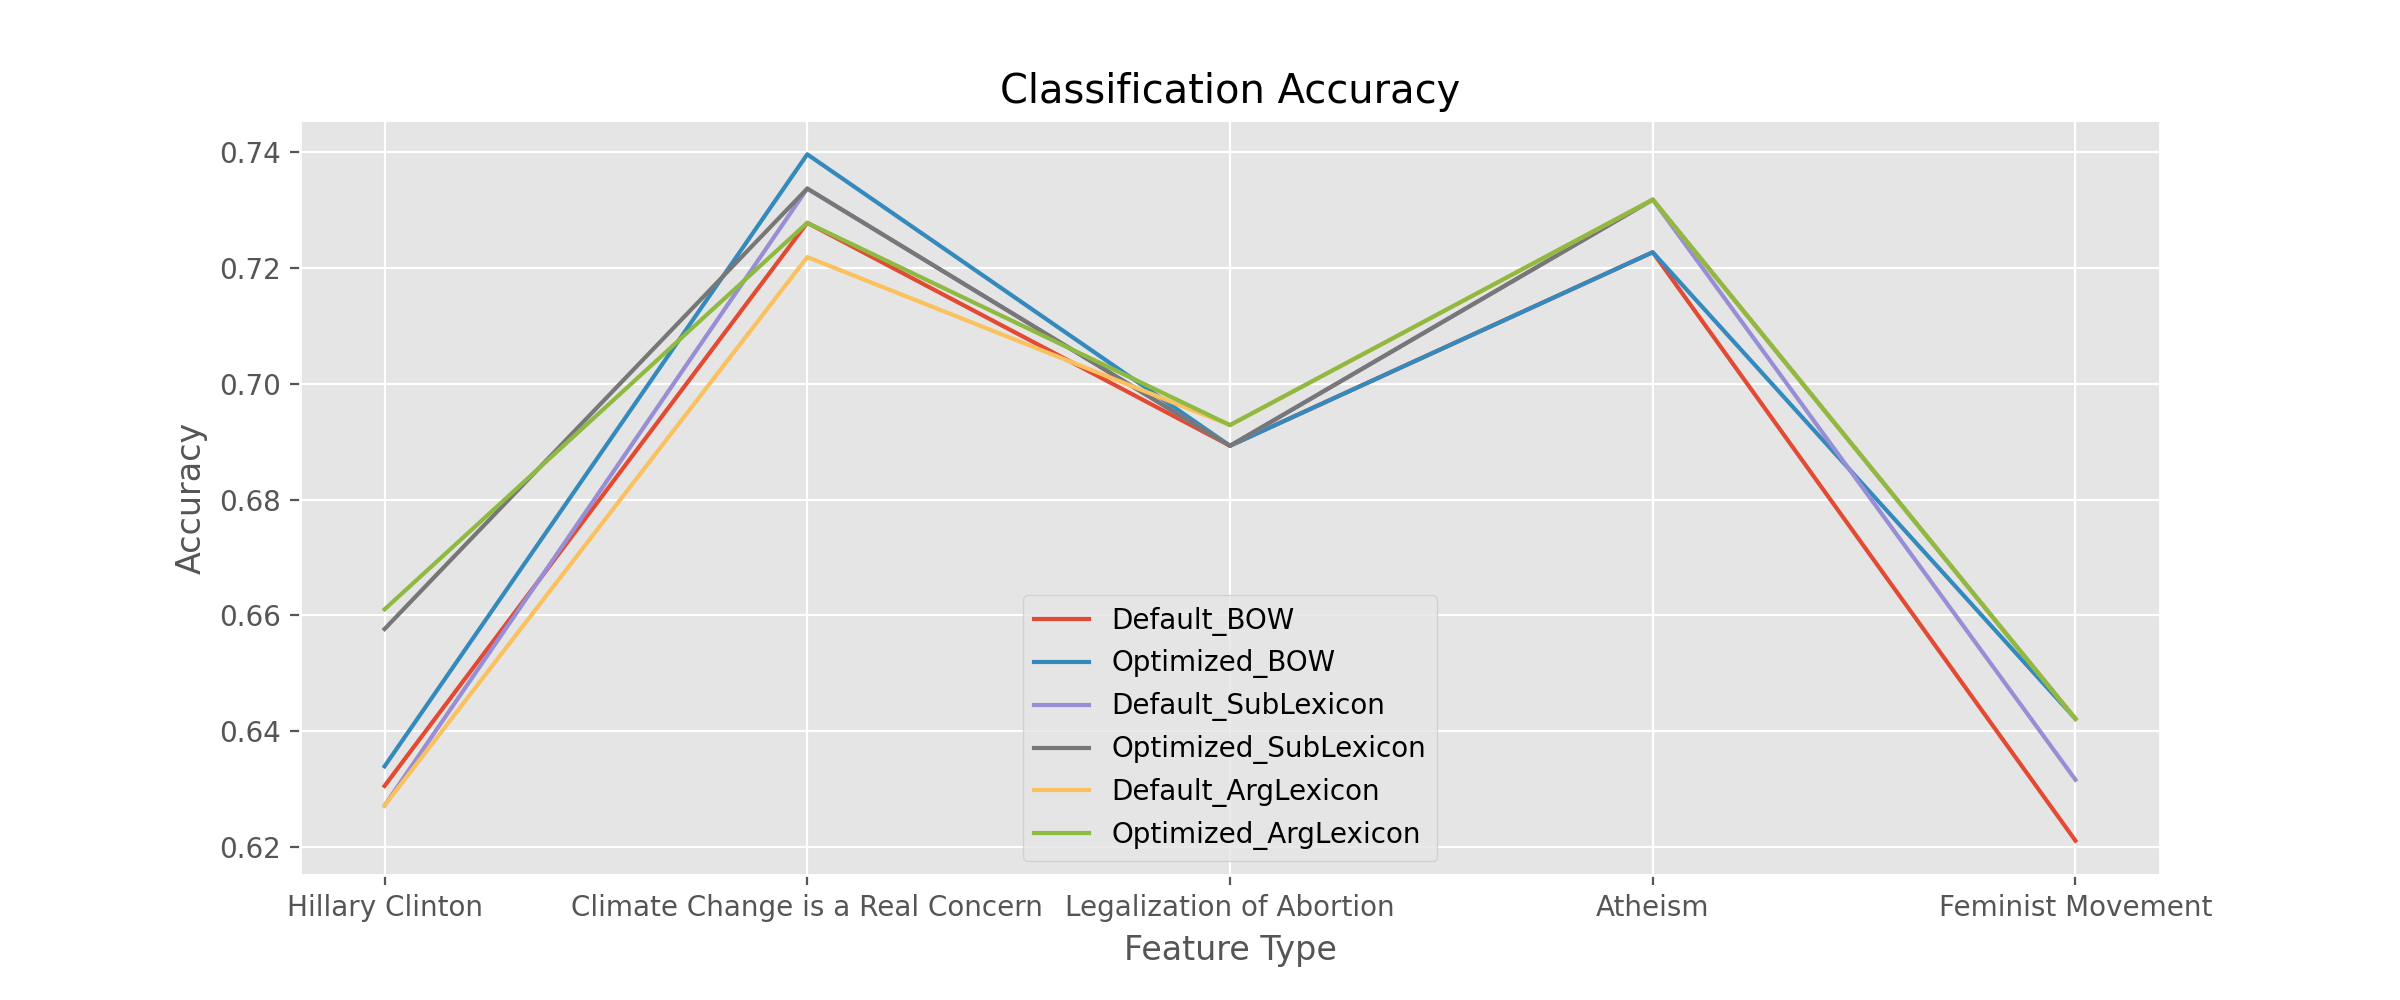
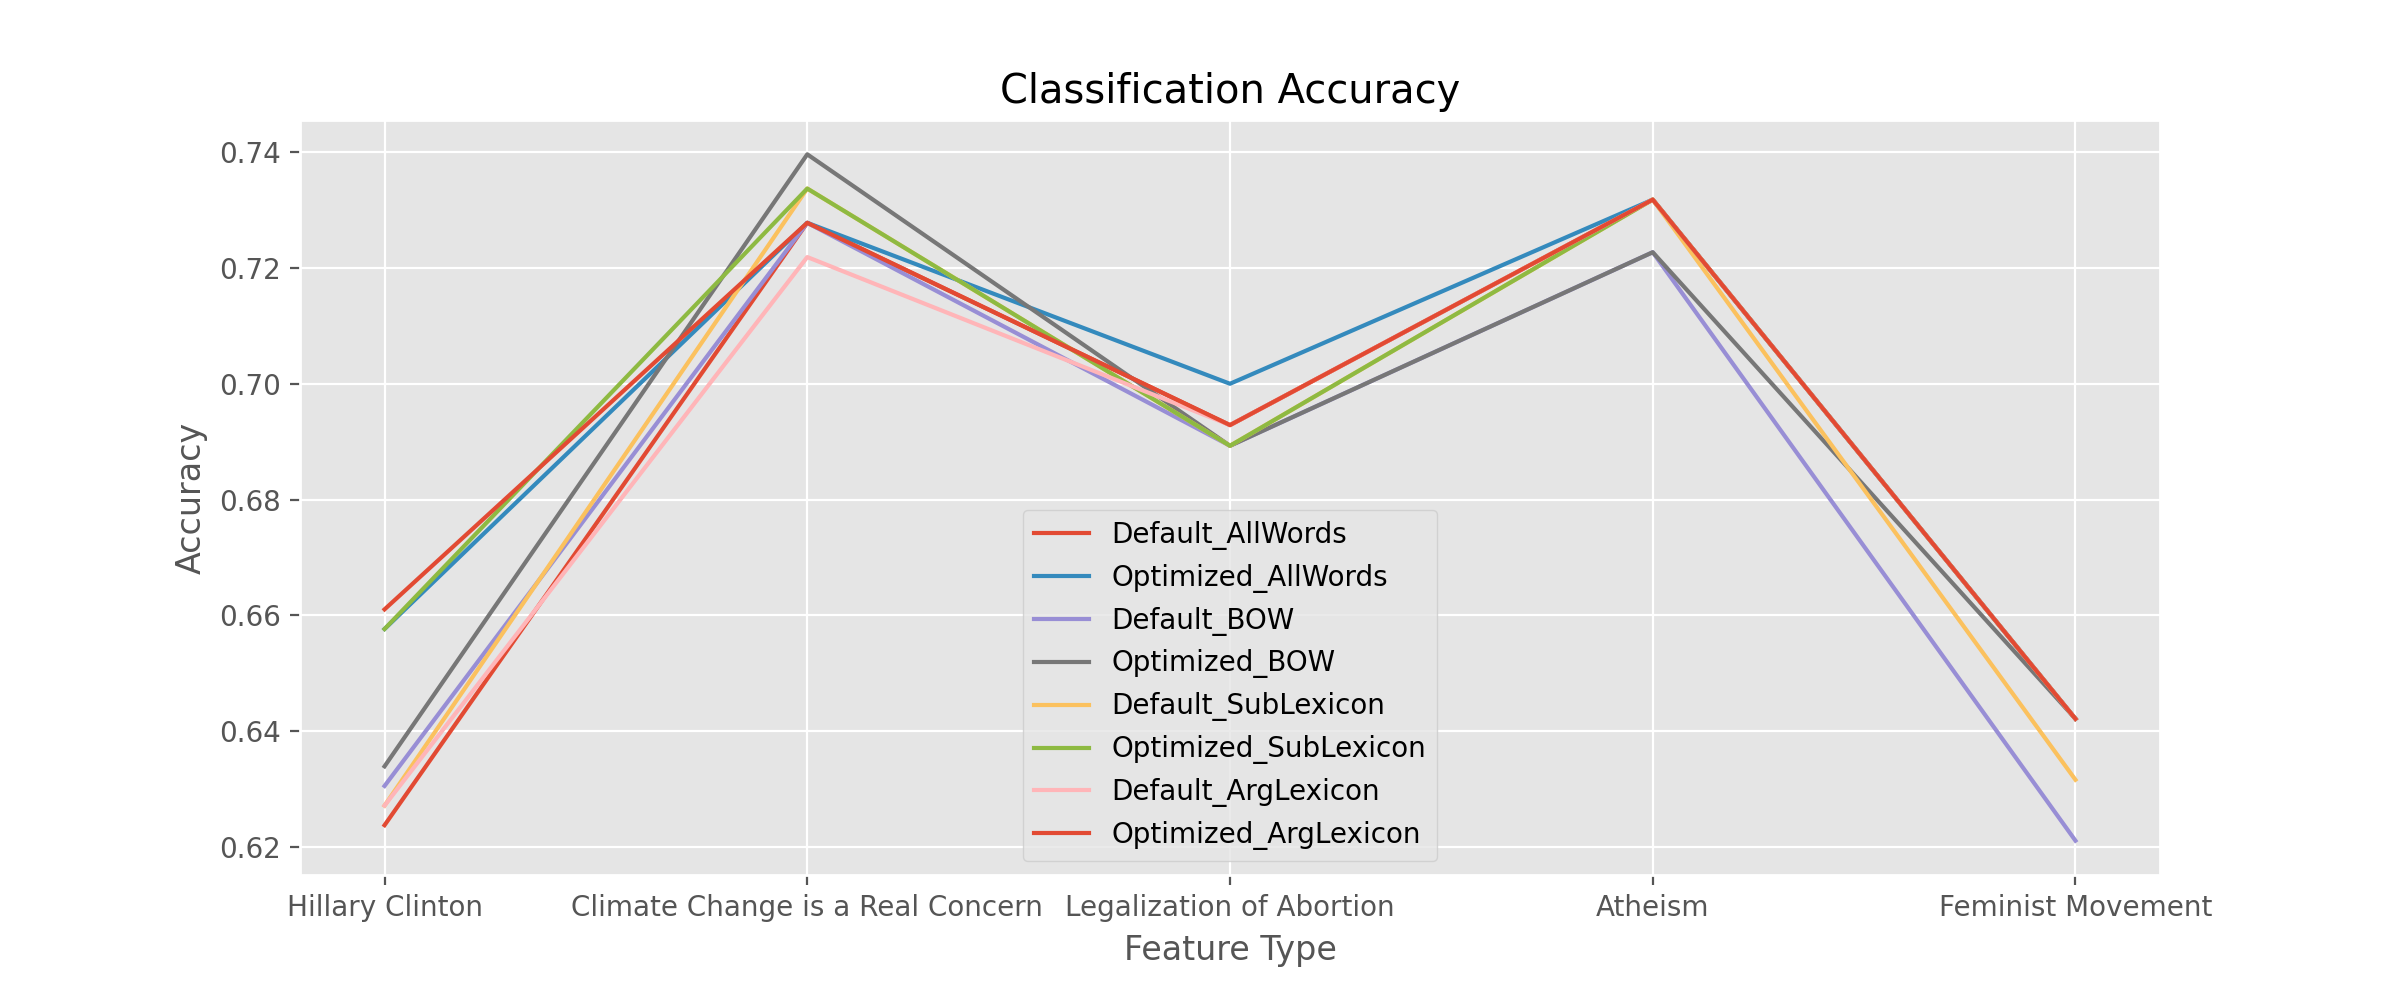
add baseline

Changed region(s): [[0.1562, 0.155, 0.875, 0.806], [0.4375, 0.527, 0.5938, 0.589]]

diff --git a/baseline.py b/baseline.py
@@ -1,22 +1,11 @@
 '''
+Date: 2021-12-14 13:55:02
+LastEditors: yuhhong
+LastEditTime: 2021-12-14 14:35:13
 
-L545/B659 Fall 2021
-Final Project
-Holly Redman <hredman@iu.edu>
-Lily Kawaoto <lkawaoto@iu.edu>
-Yuhui Hong <yuhhong@iu.edu>
-
-Part a.1:
-    "Extract a bag-of-words list of nouns, adjectives, and verbs for all targets individually. 
-    Then create feature vectors for all training and test data (separately) for all targets."
-
-Part a.2: 
-    "Perform classification using Support Vector Machines (SVM) and default settings."
-
-Part a.3:
-    "Improve the results when optimize the settings. " 
-
+This is the baseline, which use all the words as features. We could compare the results from part A, B, C and D with this baseline. 
 '''
+
 import os
 import pandas as pd
 import numpy as np
@@ -32,11 +21,6 @@ TRAIN_SET_PATH = './StanceDataset/train.csv'
 TEST_SET_PATH = './StanceDataset/test.csv'
 RESULTS_PATH = 'results.csv'
 TARGET_LIST = ['Hillary Clinton', 'Climate Change is a Real Concern', 'Legalization of Abortion', 'Atheism', 'Feminist Movement']
-# Yuhui: Except 'Donald Trump' temporarily, we may need to disscuss how to process this target. 
-# Targets in train: ['Hillary Clinton', 'Atheism', 'Legalization of Abortion', 
-#                       'Climate Change is a Real Concern', 'Feminist Movement']
-# Targets in test: ['Donald Trump', 'Hillary Clinton', 'Atheism', 'Climate Change is a Real Concern', 
-#                          'Feminist Movement', 'Legalization of Abortion']
 STANCE_DICT = {'AGAINST': 0, 'NONE': 1, 'FAVOR': 2}
 
 
@@ -46,10 +30,8 @@ STANCE_DICT = {'AGAINST': 0, 'NONE': 1, 'FAVOR': 2}
 def per_SVM(data_train, data_test, clf, target): 
     print(">>> {}".format(target))
 
-    # Lily: we may have to add more code later to specify whether to use X_[train|test] or X2_[train|test].
-    # For example, Parts A & B depend on the Noun/Adj/Verb bag-of-words vocabulary, but not Part C.
-    X_train, Y_train = data_train.get_data_of_target_bow(target) # X2 = 'BOW', Y = 'Stance'
-    X_test, Y_test = data_test.get_data_of_target_bow(target)
+    X_train, Y_train = data_train.get_data_of_target(target) # X = 'CleanTweet', Y = 'Stance'
+    X_test, Y_test = data_test.get_data_of_target(target)
 
     # encode X and Y
     # Yuhui: I put them outside the class TweetsData, because the training data 
@@ -95,12 +77,12 @@ if __name__ == "__main__":
 
     ### 2: Preprocess on data (details in `a_1_2_util.py`). 
     ### 3: Extract a bag-of-words list of nouns, adj, and verbs from original Tweets.
-    data_train = TweetsData(df_train, mode='Bow') # init a TweetsData
+    data_train = TweetsData(df_train, mode='AllWords') # init a TweetsData
     print("Load {} training data from {}".format(len(data_train), TRAIN_SET_PATH))
-    data_test = TweetsData(df_test, mode='Bow') # init a TweetsData
+    data_test = TweetsData(df_test, mode='AllWords') # init a TweetsData
     print("Load {} test data from {}\n".format(len(data_test), TEST_SET_PATH))
     # print("Targets in train: {}".format(data_train.get_targets())) 
-    # print("Targets in test: {}".format(data_test.get_targets()))  
+    # print("Targets in test: {}".format(data_test.get_targets()))
 
 
 
@@ -117,30 +99,27 @@ if __name__ == "__main__":
     # The details of exploring the setting are in `explore_SVM_settings.ipynb`.  
     print("Optimized SVM ==============>> \n")
     opt_results = []
-    # Yuhui: These optimized SVM is different with that in baseline. We may always optimize the SVM 
-    # when we use the different features. "C" is the most important parameter, which need to be adjusted. 
-    clf = svm.SVC(C=10, kernel='rbf', gamma='scale', class_weight=None)
+    clf = svm.SVC(C=10, kernel='rbf', gamma='scale', class_weight='balanced')
     opt_results.append(per_SVM(data_train, data_test, clf, target='Hillary Clinton'))
 
-    clf = svm.SVC(C=10, kernel='rbf', gamma='scale', class_weight=None)
+    clf = svm.SVC(C=100, kernel='rbf', gamma='scale', class_weight='balanced')
     opt_results.append(per_SVM(data_train, data_test, clf, target='Climate Change is a Real Concern'))
 
-    clf = svm.SVC(C=1, kernel='rbf', gamma='scale', class_weight=None)
+    clf = svm.SVC(C=100, kernel='rbf', gamma='scale', class_weight='balanced')
     opt_results.append(per_SVM(data_train, data_test, clf, target='Legalization of Abortion'))
 
-    clf = svm.SVC(C=1, kernel='rbf', gamma='scale', class_weight=None)
+    clf = svm.SVC(C=10, kernel='rbf', gamma='scale', class_weight='balanced')
     opt_results.append(per_SVM(data_train, data_test, clf, target='Atheism'))
 
-    clf = svm.SVC(C=0.1, kernel='rbf', gamma='scale', class_weight=None)
+    clf = svm.SVC(C=0.1, kernel='rbf', gamma='scale', class_weight='balanced')
     opt_results.append(per_SVM(data_train, data_test, clf, target='Feminist Movement'))
 
 
 
     ### 6: Save the results to a file. 
     # add new columns for this experiment
-    df_res['Default_BOW'] = results
-    df_res['Optimized_BOW'] = opt_results
+    df_res['Default_AllWords'] = results
+    df_res['Optimized_AllWords'] = opt_results
     print(df_res)
     df_res.to_csv(RESULTS_PATH, sep='\t', index=False)
     print("Save the results into {}".format(RESULTS_PATH))
-

diff --git a/util.py b/util.py
@@ -1,7 +1,7 @@
 '''
 Date: 2021-11-20 13:10:42
 LastEditors: yuhhong
-LastEditTime: 2021-12-02 12:35:47
+LastEditTime: 2021-12-14 14:27:49
 '''
 import re
 import string
@@ -22,6 +22,8 @@ class TweetsData(object):
         assert mode=='AllWords' or mode == 'Bow' or mode == 'SubLexicon' or mode == 'ArgLexicon'
         # preprocess the tweets
         self.df['CleanTweet'] = self.preprocess()
+
+        # Baseline uses the mode of 'AllWords'. Nothing special need to be done in this mode. 
 
         # Part A
         if mode == 'Bow':
@@ -64,11 +66,13 @@ class TweetsData(object):
             filtered_sentence = [w for w in sent if w not in stop_words]
             filtered_tweets.append(' '.join(filtered_sentence))
         # 3. remove usernames (holly)
-       # clean_tweets = [re.sub('@[^\s]+', '', t) for t in filtered_tweets]
-       # return clean_tweets
-      ''' If we remove usernames, that step would actually need to go before removing punctuation (because the regex
-          expression looks for '@', which is in the set of punctuation. But when I did that, the accuracy
-          decreased. So I don't think usernames should be removed. '''
+        # clean_tweets = [re.sub('@[^\s]+', '', t) for t in filtered_tweets]
+        # return clean_tweets
+        ''' If we remove usernames, that step would actually need to go before removing punctuation (because the regex
+        expression looks for '@', which is in the set of punctuation. But when I did that, the accuracy
+        decreased. So I don't think usernames should be removed. '''
+        '''Yuhui: Is there any Emoji in our data? I think that make sense to keep the emojis, but I did not find them.'''
+        return filtered_tweets
 
     def __len__(self):
         return len(self.df)
@@ -77,6 +81,7 @@ class TweetsData(object):
         print(self.df)
         return
     
+
     # Please put the "gen" functions here ================================
     # These functions are used to generate feature for the Dataset, in initialization. 
     def gen_nav(self):
@@ -88,10 +93,11 @@ class TweetsData(object):
         cleantweets = self.df['CleanTweet'].to_list()
         
         pos_tweets = [tagger.tag_text(tweet) for tweet in cleantweets] # tagger format: 'word\tPOS\tlemma'
-        f = open('tweets_tagged.txt', 'w')
-        for tweet in pos_tweets:
-           f.write(tweet)
-        f.close()
+        # Yuhui: Uncommend these line when use. 
+        # f = open('tweets_tagged.txt', 'w')
+        # for tweet in pos_tweets:
+        #    f.write(tweet)
+        # f.close()
         nav = []
         for tweet in pos_tweets:
             str = ''
@@ -122,6 +128,7 @@ class TweetsData(object):
                 count_lexicons_each.append(sum([len(re.findall(lex, tweet)) for lex in lex_list]))
             count_lexicons.append(count_lexicons_each)
         return count_lexicons # shape: (n, 17)
+
 
     # Please put the "get" functions here ================================
     # These functions are used to export the features. 

diff --git a/README.md b/README.md
@@ -2,7 +2,7 @@
 
  * @Date: 2021-11-09 11:26:11
  * @LastEditors: yuhhong
- * @LastEditTime: 2021-12-02 13:56:12
+ * @LastEditTime: 2021-12-14 14:52:19
 -->
 # L545-B659-Final-Project
 
@@ -38,6 +38,20 @@ Here is the plot of all the performances. The optimized arguing lexicons perform
 
 
 
+## Baseline
+
+- In the baseline, all the tweets have been preprocessed, and all the words are used as the feature. We could compare new features from PartA, PartB, PartC and PartD with this baseline, then decide what are the features will be used in our final model. 
+
+| Target                           | Default_BOW | Optimized_BOW |
+| -------------------------------- | ----------- | ------------- |
+| Hillary Clinton                  | 0.6237      | 0.6576        |
+| Climate Change is a Real Concern | 0.7278      | 0.7278        |
+| Legalization of Abortion         | 0.6928      | 0.7000        |
+| Atheism                          | 0.7318      | 0.7318        |
+| Feminist Movement                | 0.6421      | 0.6421        |
+
+
+
 ## Part A
 
 - Extract a bag-of-words list of nouns, adjectives, and verbs for all targets individually. Then create feature vectors for all training and test data (separately) for all targets.
@@ -45,16 +59,16 @@ Here is the plot of all the performances. The optimized arguing lexicons perform
 - Improve the results when optimize the settings. In `explore_SVM_settings.ipynb`, the 'Hillary Clinton' is used as an example aiming to explore the affect of each parameter of SVM. Then we get a general step of adjust SVM settings and optimized them for different targets one by one in `a.py`. The general steps are: 
 	- Check that which kernel performance best with their default related parameters. 
     In most of the situations, it is linear kernel or RBF kernel. If the dimension of feature is large enough compare to the number of samples, the data can be linearly seperatable in high dimensionality, the linear kernel will performance great and fast. If the dimension of feature is not large enough, the RBF kernel could be a good choice. 
-	- Adjust the regularization parameter.
+	- Adjust the regularization parameter. 
 	- Check that whether a balanced class weight need to be used. 
 
-| Target                           | Default_AllWords | Default_BOW | Optimized_BOW |
-| -------------------------------- | ---------------- | ----------- | ------------- |
-| Hillary Clinton                  | 0.6237           | 0.6305      | 0.6339        |
-| Climate Change is a Real Concern | 0.7278           | 0.7278      | 0.7396        |
-| Legalization of Abortion         | 0.6929           | 0.6893      | 0.6893        |
-| Atheism                          | 0.7318           | 0.7227      | 0.7227        |
-| Feminist Movement                | 0.6421           | 0.6211      | 0.6421        |
+| Target                           | Default_BOW | Optimized_BOW |
+| -------------------------------- | ----------- | ------------- |
+| Hillary Clinton                  | 0.6305      | 0.6339        |
+| Climate Change is a Real Concern | 0.7278      | 0.7396        |
+| Legalization of Abortion         | 0.6893      | 0.6893        |
+| Atheism                          | 0.7227      | 0.7227        |
+| Feminist Movement                | 0.6211      | 0.6421        |
 
 
 
@@ -95,4 +109,3 @@ Here is the plot of all the performances. The optimized arguing lexicons perform
 | Legalization of Abortion         | 0.7036          | 0.6750             | 0.6786                 |
 | Atheism                          | 0.7273          | 0.7273             | 0.7273                 |
 | Feminist Movement                | 0.6351          | 0.6561             | 0.6491                 |
-
